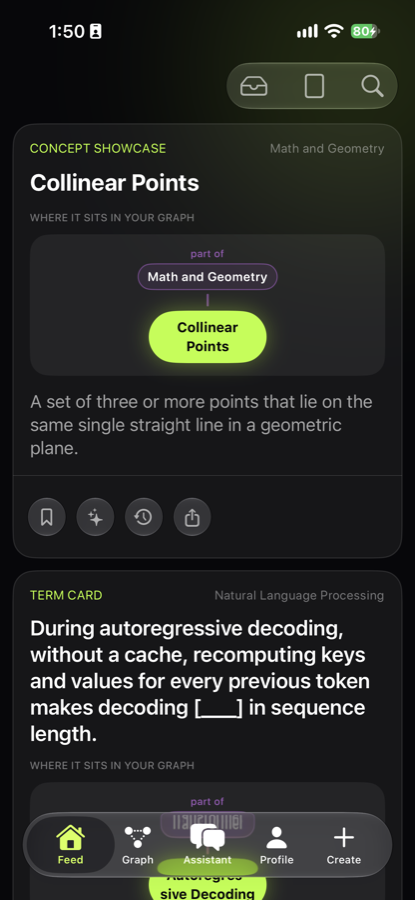
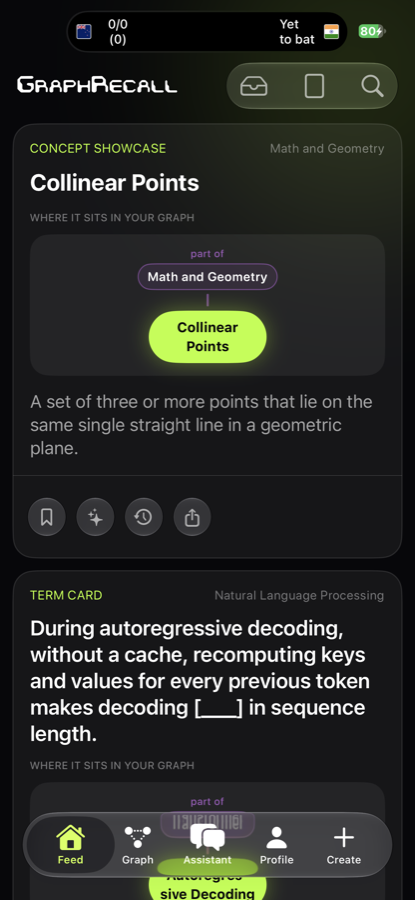
docs(readme): tell the story in order — create, graph, feed, assistant, profile, MCP — with tonight's screenshots
Links the write-up and technical report; shows the YouTube feed card and the
Nano Banana Transformer redrawn from the original paper's figure.

Changed region(s): [[0.0289, 0.0, 0.4337, 0.1244], [0.5205, 0.0, 0.9253, 0.0622]]

diff --git a/README.md b/README.md
@@ -18,40 +18,65 @@
 
 ---
 
-## GraphRecall in one minute (November 2026)
+## GraphRecall in one minute
 
-**Live showcase:** [https://usnaveen.github.io/graphrecall-site/](https://usnaveen.github.io/graphrecall-site/) · **65s Demo video:** [Watch the walkthrough](https://usnaveen.github.io/graphrecall-site/#demo)
+> **Graphs are everywhere.** LinkedIn and Reddit are full of beautiful knowledge graphs, and most of them, like most piles of notes, never get opened again. **GraphRecall builds an *active* graph of every concept you've been exposed to, and brings it back to you.**
 
-**You forget most of what you learn, and neither you nor your AI tools can see what you actually know.** GraphRecall turns what you read — PDFs, notes, links, YouTube — into a personal knowledge graph, then brings it back as a feed you scroll like social media instead of homework. The same graph tells your AI agents what you know, so they can explain things in terms you already have.
+📄 **[What makes it special](docs/GraphRecall-What-Makes-It-Special.pdf)** · 🛠 **[Technical report](docs/TECHNICAL-REPORT.md)** ([PDF](docs/GraphRecall-Technical-Report.pdf)) · 🌐 **[graphrecall.online](https://graphrecall.online)**
 
-It runs as a native iOS 26 app (SwiftUI, Liquid Glass) on a FastAPI + PostgreSQL/pgvector + Neo4j backend.
+GraphRecall is a native iOS 26 app (SwiftUI, Liquid Glass) on a FastAPI + PostgreSQL/pgvector + Neo4j backend with Gemini models.
 
+### 1. Put anything in
+Type concepts or text, paste a URL or a YouTube video, import a chat history, upload files and whole books, scan pages and photos, or just talk. You can also share to GraphRecall from any app.
+
+### 2. It becomes your graph
+Concepts are extracted. Each one **merges into a node you already have or becomes a new one**, linked with typed, directed edges: *prerequisite of*, *subtopic of*, *builds on*. Communities are detected and named. Tap a concept and you see only what it needs, what it's part of and what it unlocks.
+
+### 3. It comes back as a feed you actually open
 <p align="center">
-  <img src="docs/media/feed-posts.png" width="200" alt="Feed: cards one after another, graded with Apple's native slider">
-  <img src="docs/media/graph-focus-neural-network.png" width="200" alt="Graph: a concept with its closest prerequisites and subtopics, typed arrows">
-  <img src="docs/media/assistant.png" width="200" alt="Assistant: GraphRAG answer with citations and Ask-next suggestions">
-  <img src="docs/media/create.png" width="200" alt="Create: concepts, text, URL, YouTube, scan, voice, Remind me, LeetCode">
+  <img src="docs/media/feed-posts.png" width="210" alt="Feed: concept cards one after another">
+  <img src="docs/media/feed-video-card.png" width="210" alt="Feed: a YouTube video from a followed channel, matched to concepts in your graph">
+  <img src="docs/media/graph-focus-neural-network.png" width="210" alt="Graph: one concept with its closest prerequisites and subtopics">
 </p>
 
-### What's built
-- **Your knowledge as a graph.** Concepts with typed, directed links (prerequisite → concept, subtopic → parent, builds on), grouped into named communities. On the author's account: 507 concepts, about 2,184 links, 23 communities. The graph view keeps communities apart and labelled; tapping a concept shows only its closest neighbours. Backend also serves zoomable subject → community → concept hierarchy views and a color-annotated recall-outline tree (`GET /api/graph3d/hierarchy`, `GET /api/graph3d/recall-outline`, enriched `/focus/{id}` in `backend/services/graph_hierarchy.py`).
-- **Live dictation-to-graph SSE streaming (backend).** Parses spoken concept lists, emits existing graph edges first, and streams inferred typed edges (`PREREQUISITE_OF`, `SUBTOPIC_OF`, `BUILDS_ON`, `APPLIES_TO`) via `POST /api/graph3d/dictate/stream` (`backend/services/dictation_graph.py`).
-- **GraphRAG assistant with citations.** Answers come from your own notes and graph, with numbered sources.
-- **Intent routing without an LLM call.** A trained classifier routes each message when it is confident and falls back to one LLM call when it isn't; every decision is logged (`backend/services/intent_router/`).
-- **Corpus-versioned answer cache.** Cached answers are partitioned by a corpus version, so a deleted note's text is never served from cache.
-- **"Ask next": follow-ups chosen by the graph, not a model.** Around the concepts that grounded the answer, it picks a prerequisite you're shaky on, a part you haven't studied and what the concept unlocks — about 0.2 s and zero tokens (`backend/services/followups.py`). Taps are logged per suggestion kind for click-through evaluation.
-- **A feed, not homework.** Quiz, term, concept and code-sandbox cards with spaced repetition; you rate recall on Apple's native slider, and any card can come back later with "Remind me".
-- **Generalized links, RSS feeds & signed newsletter ingestion (backend).** Supports Substack, Medium profiles/publications, YouTube channel feeds, HTML `<link rel="alternate">` discovery (`/api/subscriptions/feeds`), HMAC-SHA256 verified inbound newsletter webhook splitting multi-story digests (`POST /api/ingest/email`), and chronological "Where I learned this" provenance (`GET /api/concepts/{id}/provenance`).
-- **Overnight batch pipeline with cost telemetry (backend).** Runs low-cost batch jobs (`digest_links_and_newsletters`, `leetcode_pattern_summary`, `resume_gap_recommendations`, `build_next_day_feed_plan`), logging token counts and estimated USD cost per night to `overnight_job_runs` + `usage_daily` (`POST /api/v2/agent/overnight/run`, `GET /api/v2/agent/overnight/report`).
-- **Resume vs. what you know.** Each skill on your resume is checked against evidence in your graph: strong, shaky, seen or new.
-- **LeetCode by number.** Type 146: title, difficulty, topics and a suggested pattern fill in from LeetCode's public API; attempts schedule reviews.
-- **Illustrations from Gemini's image model (Nano Banana)** on concept cards, clearly attributed (`backend/scripts/generate_concept_illustrations.py`).
-- **MCP server with per-query knowledge frontier & session write-back.** Claude, Cursor and other MCP clients can read your knowledge profile and per-query knowledge frontier (`get_knowledge_frontier`: strong anchors, shaky frontier, gaps, misconceptions, provenance, resume claims at risk, plus a cacheable profile prefix hash) and record session exposures (`record_exposure`) with scoped keys (`backend/agent_bridge/`); OAuth 2.1 with PKCE is implemented (not yet publicly hosted).
+- **A one-stop daily view.** Concept showcases, quizzes, term cards and runnable code cards (with syntax colours), plus videos and articles from sources you follow (YouTube, Substack, Medium, RSS), each matched to concepts you're learning.
+- **ADHD-friendly by design.** It scrolls like social media: no goal rings, no streak guilt, and a daily limit instead of a backlog. You rate how well you knew each card on Apple's native slider, and "Remind me" brings any card back later.
+- **Real spaced repetition.** FSRS schedules every concept. When recall slips, it **backtracks to the shaky prerequisites underneath**.
+- **Pictures that teach.** Figures from your own papers and books appear on cards. Where there's no figure, a Gemini image model (Nano Banana) redraws the real reference diagram in the app's style:
 
-<p align="center"><img src="docs/media/nano-banana-multi-head-attention.jpg" width="520" alt="A Nano Banana illustration of Multi-Head Attention for concept cards"></p>
+<p align="center"><img src="docs/media/nano-banana-transformer.jpg" width="330" alt="The Transformer architecture, redrawn from the original paper's figure in GraphRecall's style"></p>
+
+### 4. An assistant that knows what you know
+<p align="center">
+  <img src="docs/media/assistant.png" width="210" alt="Assistant: answers from your notes with citations">
+  <img src="docs/media/create.png" width="210" alt="Create: many ways to add content, plus Remind me and LeetCode">
+  <img src="docs/media/resume-skills.png" width="210" alt="Resume: each claimed skill checked against your evidence">
+</p>
+
+- **GraphRAG answers from your own notes, with numbered citations.** Math renders readably.
+- **"Ask next" suggestions come from your graph, not a model**: a prerequisite you're shaky on, a subtopic you haven't studied, what the concept unlocks. About 0.2 s, zero tokens.
+
+### 5. Your profile, measured
+Education, resume, projects and LeetCode progress. Log a problem by its number: type 146, and title, difficulty, topics and pattern fill in. Every concept's status (strong, shaky, seen or new) comes from evidence. **The resume scan marks each claimed skill** by whether you could defend it.
+
+### 6. Your knowledge as context for any AI agent (MCP)
+Paste a research paper into Claude and ask it to explain:
+1. Claude calls GraphRecall's MCP server and gets your **knowledge frontier**: what you know well, the prerequisites you're shaky on, and what you've never seen.
+2. It refreshes the shaky parts, then explains the new ideas at your level.
+3. It records what you learned back into your graph.
+
+There are 15 tools in all (`get_knowledge_frontier`, `get_knowledge_profile`, `search_concepts`, `record_exposure`, …), with scoped keys and OAuth 2.1. It works today with Claude Code. Public connectors for claude.ai and ChatGPT come with hosting.
+
+### Under the hood (details in the [technical report](docs/TECHNICAL-REPORT.md))
+- **Hybrid GraphRAG retrieval:** pgvector + Postgres full-text + a graph boost, fused with reciprocal rank fusion, then reranked, diversified (MMR) and ordered against "lost in the middle". Community-summary map-reduce runs for summary questions only.
+- **Intent routing without an LLM call:** a TF-IDF and logistic-regression classifier in pure numpy, with an LLM fallback when unsure. Every decision is logged.
+- **Caching with correctness rules:** an embedding cache, and an answer cache partitioned by a version of your notes, so a deleted note is never served. Agents get a stable profile hash they can cache as a prompt prefix.
+- **Cost discipline:** small models by default, zero-token components where a model isn't needed, and per-day usage tracking.
 
 ### What's next
-iOS UI wiring for the new hierarchy, dictation-stream, and overnight telemetry views · live Cloudflare domain/Email Routing & public OAuth hosting · server-side Resume PDF storage · published retrieval evals (pending paid Gemini billing).
+Hold "+" to dictate concepts and watch the graph wire itself up (the streaming backend exists) · open the graph on subjects, then communities, then concepts · keep resume PDFs on the server · public hosting for agent connectors · newsletter email routing · published retrieval evaluation scores.
+
+---
 
 The rest of this README documents the system in depth (architecture, API, schema, workflows); parts of it describe the earlier React web client.
 
